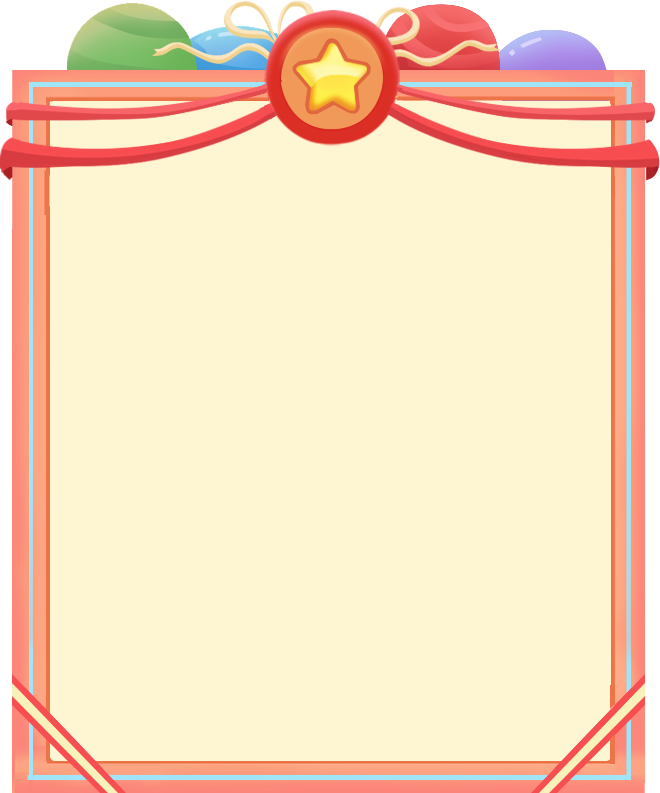
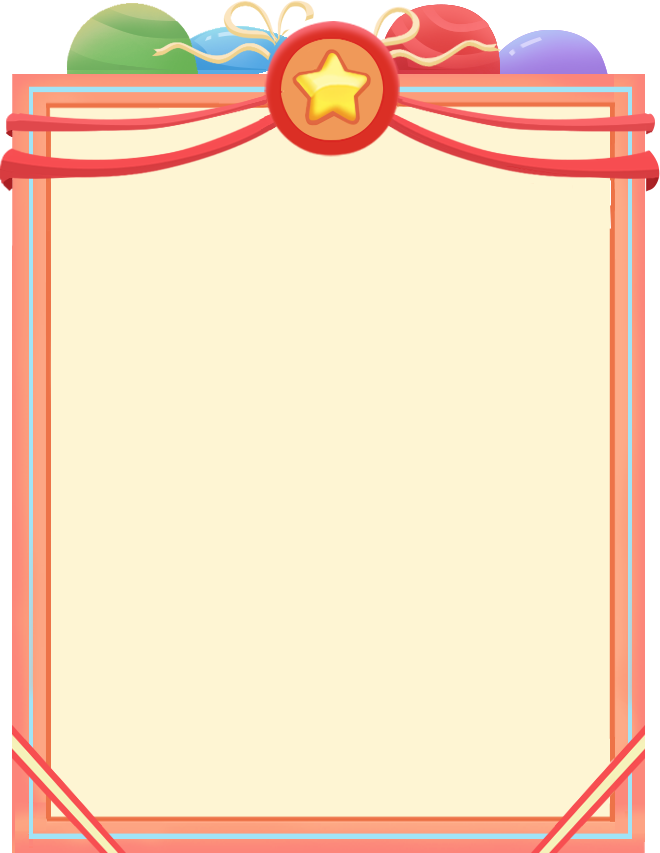
fix(section): 弹窗高度增加

diff --git a/src/component/SectionMask.tsx b/src/component/SectionMask.tsx
@@ -30,7 +30,7 @@ const Content = styled(animated.div)`
   background-image: url(${SectionPassContentPng});
   background-size: cover;
   width: 660px;
-  height: 793px;
+  height: 853px;
   position: relative;
   & > div {
     padding: 134px 48px 0 50px;

diff --git a/src/component/SectionSwiper.tsx b/src/component/SectionSwiper.tsx
@@ -40,9 +40,8 @@ const Content = styled.div`
     overflow: hidden;
     text-overflow: ellipsis;
     display: -webkit-box;
-    -webkit-line-clamp: 2;
+    -webkit-line-clamp: 6;
     -webkit-box-orient: vertical;
-    height: 48px;
   }
 `;
 
